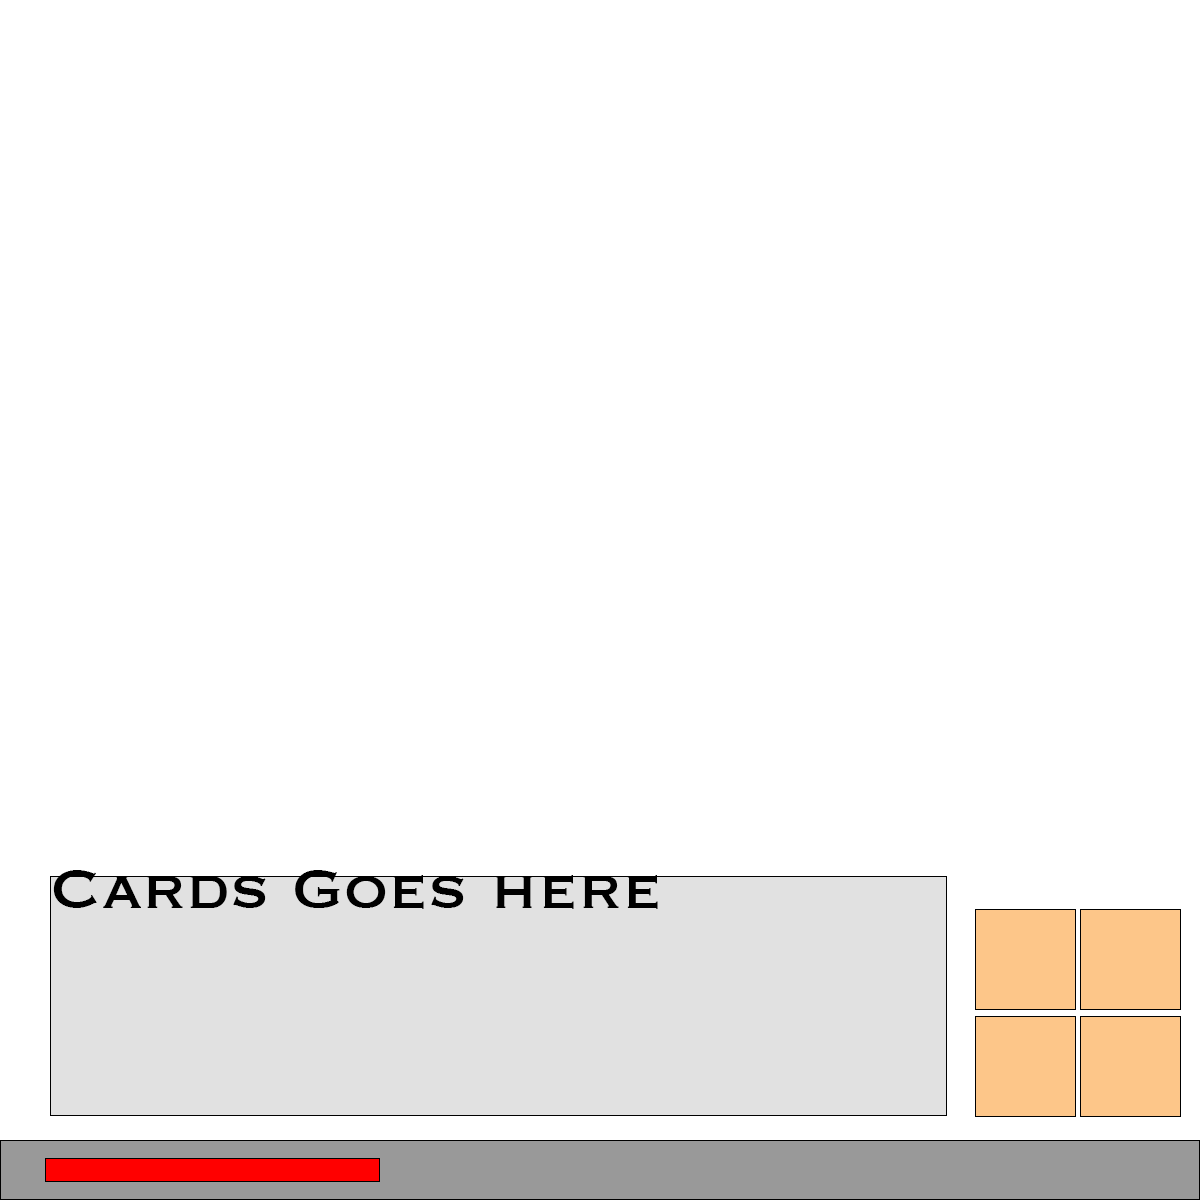
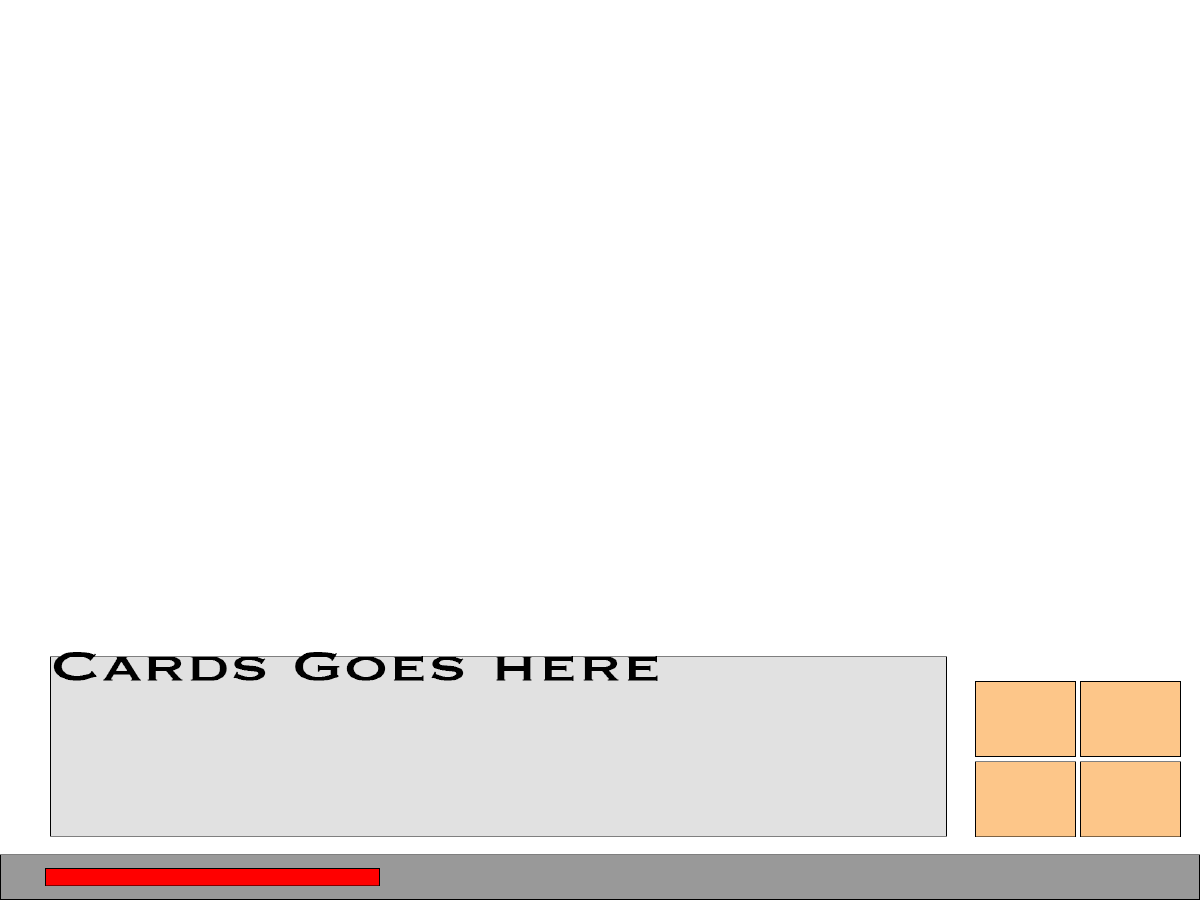
Cards now show up in the card area

diff --git a/main.py b/main.py
@@ -11,12 +11,13 @@ black = pygame.Color(0, 0, 0)
 white = pygame.Color(0, 0, 0)
 mousex = 0
 mousey = 0
-placeholder = pygame.image.load(r"C:\Users\jair1966\PycharmProjects\pythonGame\Images\Square.png")
-background = pygame.image.load(r"C:\Users\jair1966\PycharmProjects\pythonGame\Images\pythonGameBackground.png")
+placeholder = pygame.image.load(r"C:\Users\streambox-31\PycharmProjects\pythonGame\Images\card.png")
+background = pygame.image.load(r"C:\Users\streambox-31\PycharmProjects\pythonGame\Images\pythonGameBackground.png")
 start = True
 moved = False
 turn = 0
 hand = []
+hand2 = []
 
 
 class card:
@@ -40,23 +41,25 @@ def cardGenerator(name, damage, type, gearCost):
     name = card(name)
     name.damage = damage
     name.cardType = type
-    name.cardImage = pygame.image.load(r"C:\Users\jair1966\PycharmProjects\pythonGame\Images/" + name.name + ".png")
+    name.cardImage = pygame.image.load(r"C:\Users\streambox-31\PycharmProjects\pythonGame\Images/" + name.name + ".png")
     if type.lower() == "gear":
         name.gearCost = gearCost
         return name
     return name
 
 
-card3 = cardGenerator("Stab_Attack", 6, "Attack", 8)
-card4 = cardGenerator("Basic_Attack", 3, "Attack", 8)
-card5 = cardGenerator("Basic_Attack", 3, "Attack", 8)
-card6 = cardGenerator("Basic_Attack", 0, "Gear", 4)
+card3 = cardGenerator("card", 6, "Attack", 8)
+card4 = cardGenerator("card", 3, "Attack", 8)
+card5 = cardGenerator("card", 3, "Attack", 8)
+card6 = cardGenerator("card", 0, "Gear", 4)
 deck = [card2, card3, card4, card5, card6]
 discard = []
 
+
+
 def drawCard(amount):
     for nums in range(0, amount):
-        chosenCard = deck.pop(randint(0, len(deck)-1))
+        chosenCard = deck.pop(randint(0, len(deck) - 1))
         hand.append(chosenCard)
         discard.append(chosenCard)
 
@@ -69,12 +72,12 @@ while start:
         if event.type == MOUSEMOTION:
             mousex, mousey = event.pos
     if turn == 0:
-        turn = 1
         drawCard(2)
         cardSelection = 0
-        cardx = 50
+        cardx = 55
         for cards in range(0, len(hand)):
-            DISPLAYSURF.blit(hand[cardSelection].cardImage, (cardx, 50))
+            DISPLAYSURF.blit(hand[cardSelection].cardImage, (cardx, 700))
             cardSelection = cardSelection + 1
-            cardx = cardx + 50
+            cardx = cardx + 80
+        turn = 1
     pygame.display.update()
